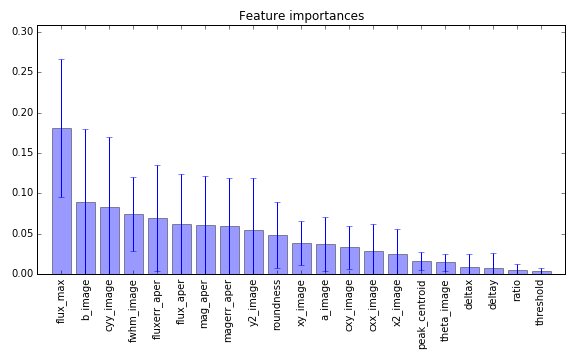
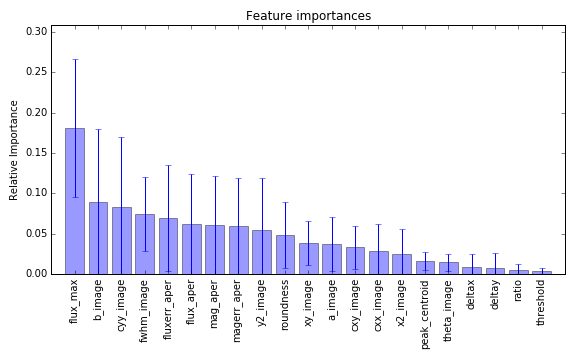
Modified the rest of Matt's corrections

Changed region(s): [[0.0, 0.0611, 0.9688, 0.9778], [0.4062, 0.0306, 0.6562, 0.0611]]

diff --git a/thesis.tex b/thesis.tex
@@ -455,15 +455,15 @@ The merger rate of binary systems is an area of active research and estimates re
 Compact binaries are formed similarly in stellar field populations of galaxies (\citet{2012LRR....15....8F}).
 Most population synthesis calculations of compact coalescence agree to within 1 to 2 orders of magnitude, 
 a result consistent with the typical uncertainties that remain once all possible sources of errors are propagated in the population synthesis models.
-Estimates range from 0.01 to 10 mergers per Mpc${}^{3}$ per Myr.
+Estimates for BNS mergers range from 0.01 to 10 mergers per Mpc${}^{3}$ per Myr.
 For a conservative merge rate of 1 Mpc${}^{-3}$Myr${}^{-1}$, and a projected observable radius of 200 Mpc at the design sensitivity of Advanced LIGO, 
-the discovery rate of CBC mergers will be of approximately 40/yr.
+the discovery rate of BNS mergers will be of approximately 40/yr (\citet{2014ApJ...795..105S}).
 
 {\bf Continuous or Periodic} sources are those that have roughly constant frequency and amplitude compared to its observation time.
 Primary sources of the continuous kind are rotating Neutron Stars (pulsars) with some non-axisymmetric anisotropy.
 The emitted gravitational wave frequency is twice the rotation frequency, and for many known pulsars, they fall within the LIGO sensitivity band (\citet{1998ApJ...501L..89B}). 
 Searches for continuous periodic signals (\citet{2005PhRvD..72j2004A, 2007PhRvD..76d2001A}) involve the integration of large portions of the time series, spanning many cycles of the pulsar, 
-correcting for Doppler shift for the motion of the Earth around the Sun, and spin-down of the pulsar, among other effects.
+correcting for Doppler shift for the motion of the Earth around the Sun, anmd spin-down of the pulsar, among other effects.
 Although the GW amplitude is generally weaker compared to CBC sources, a longer integration time means that continuous sources may also achieve detectable SNRs.
 
 {\bf Burst}-type sources are associated with large energy emission in cataclysmic events like Super Nova explosions, 
@@ -1727,9 +1727,15 @@ On the training data, the performance is quite good, with all indicators scoring
 
 In the confusion matrix we see that only 65 out of 7,624 of the reals were mis-classified as bogus, and only 33 bogus out of the 7,624 were mis-classified as reals. These very low numbers explain the very high performance scores of the classifier.
 
-Random Forest can also provide an importance score for each feature, based on how fat up in the tree structure it is within a tree.
-The features with most discriminative power are selected as first decision nodes.
-In figure \ref{fig:featureimportance} we show a graph listing the importance for each of the features along with one standard deviation.
+Random Forest can also provide an importance score for each feature, based on how far up in the tree structure it is within a tree, 
+since the features with most discriminative power are selected as first decision nodes.
+More precisely, the importance is defined as the error reduction (or the decrease in impurity) on a node, multiplied by the number of samples that were routed to that node.
+This quantity is added to the feature doing the branching at that node, and it is computed for each internal node of the tree and then averaged over the forest.
+Nodes high up in a tree tend to branch off more samples, and accordingly receive a higher multiplicative factor.
+The importances are finally normalized by the sum, so that they all add up to 1.
+
+In figure \ref{fig:featureimportance} we show a graph listing the relative importance for each of the features along with one standard deviation.
+
 The importance was calculated with a single Random Forest classifier with 10,000 trees and a maximum depth of 10.
 We can see that the first 10 or so features carry the most information, but except for the flux, most of them are equally important.
 We can also see that we could drop the last 4 (delta\_x, delta\_y, ratio and threshold) without significantly affecting the overall performance.
@@ -1737,7 +1743,7 @@ We can also see that we could drop the last 4 (delta\_x, delta\_y, ratio and thr
 \begin{figure}
 \centering
 \includegraphics[scale=0.6]{figures/featureimportance}
-\caption{The relative `importance' of each feature calculated with Random Forest algorithm.}
+\caption{The relative `importance' of each feature calculated with Random Forest algorithm. All the importances are normalized so that they add to 1.}
 \label{fig:featureimportance}
 \end{figure}
 
@@ -2802,7 +2808,7 @@ Regarding the basis functions, two particular choices are the most popular.
 The first one was proposed by \citet{1998ApJ...503..325A} and consists of modulated centered Gaussians:
 
 \begin{equation}
-B_{n,d_n^{x}, d_n^{y}}(u,v) = e^{-(u^2+v^2)/2 \sigma_n^2} \times u^{d_n^{x}} v^{d_n^{y}}
+B_{n,p, q}(u,v) = e^{-(u^2+v^2)/2 \sigma_n^2} \times u^{p} v^{q}
 \end{equation}
 
 where the exponents in $u$ and $v$ add at most up to $D$, the degree of the modulation polynomial.
